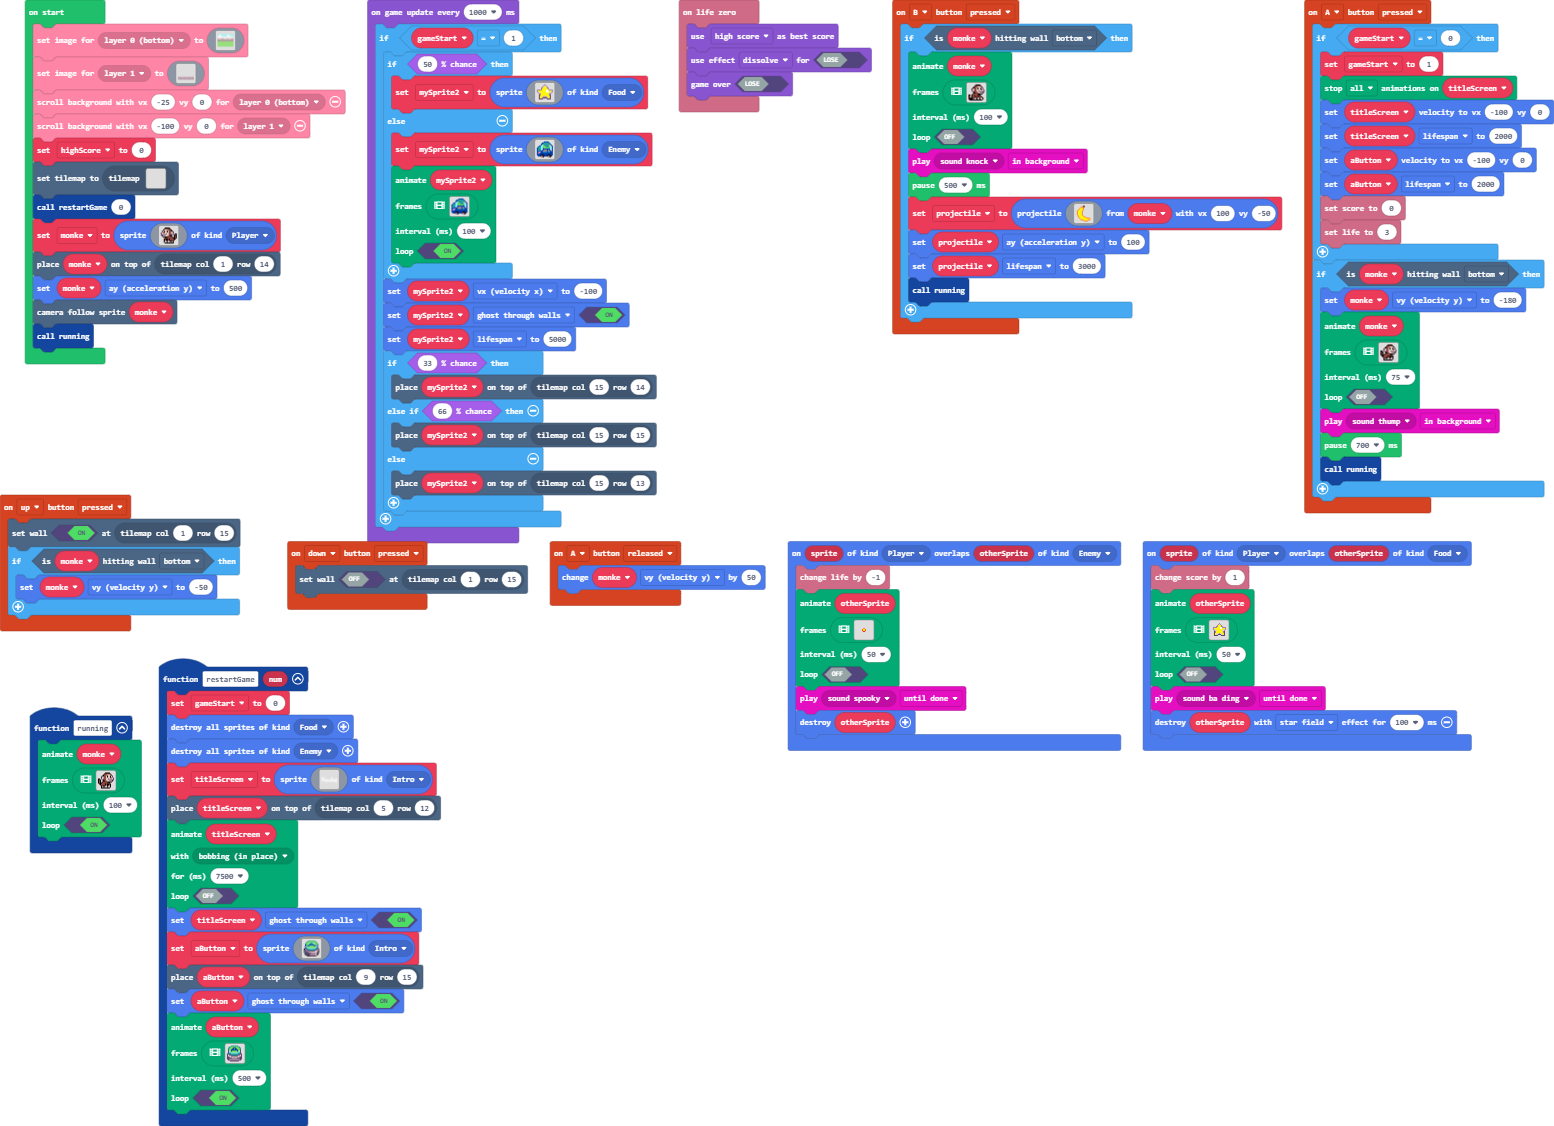
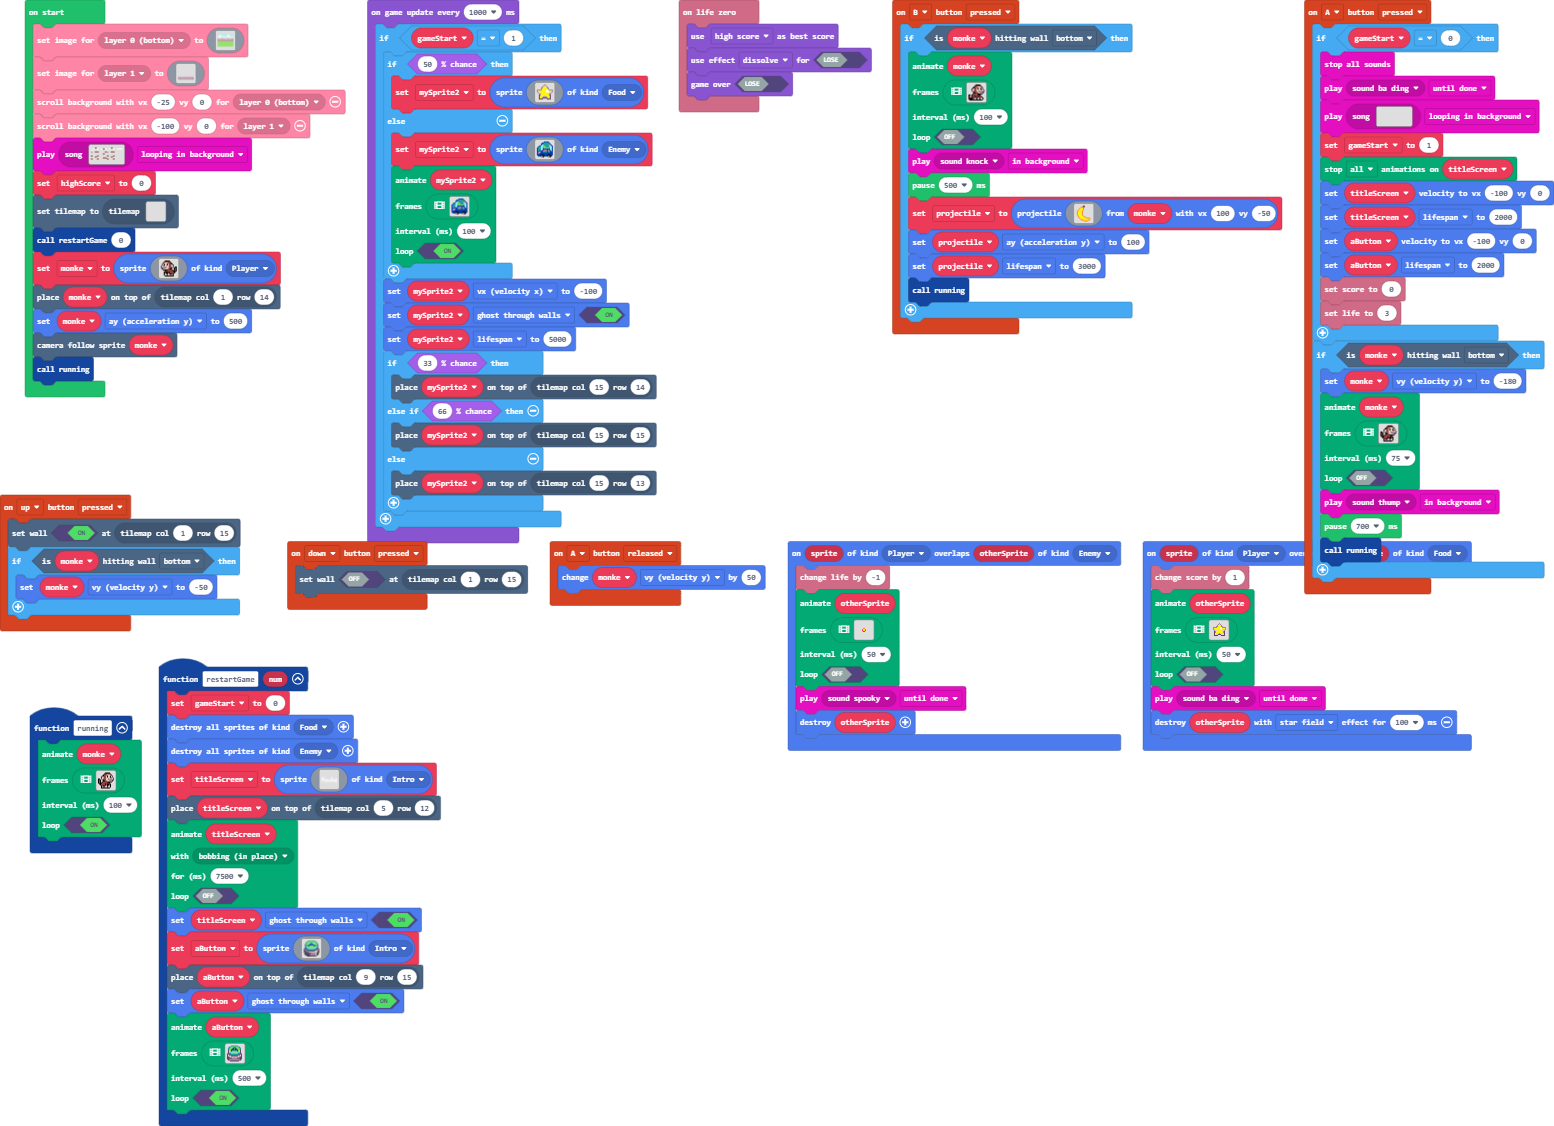
intro music

Changed region(s): [[0.834, 0.0311, 1.0, 0.5284], [0.0, 0.1243, 0.1853, 0.373]]

diff --git a/main.ts b/main.ts
@@ -127,6 +127,9 @@ controller.B.onEvent(ControllerButtonEvent.Pressed, function () {
 })
 controller.A.onEvent(ControllerButtonEvent.Pressed, function () {
     if (gameStart == 0) {
+        music.stopAllSounds()
+        music.play(music.melodyPlayable(music.baDing), music.PlaybackMode.UntilDone)
+        music.play(music.createSong(hex`00780004080200`), music.PlaybackMode.LoopingInBackground)
         gameStart = 1
         animation.stopAnimation(animation.AnimationTypes.All, titleScreen)
         titleScreen.setVelocity(-100, 0)
@@ -991,6 +994,7 @@ scroller.setLayerImage(scroller.BackgroundLayer.Layer1, img`
     `)
 scroller.scrollBackgroundWithSpeed(-25, 0, scroller.BackgroundLayer.Layer0)
 scroller.scrollBackgroundWithSpeed(-100, 0, scroller.BackgroundLayer.Layer1)
[1 lines of base64/hex data omitted]
 let highScore = 0
 tiles.setCurrentTilemap(tilemap`level2`)
 restartGame(0)
